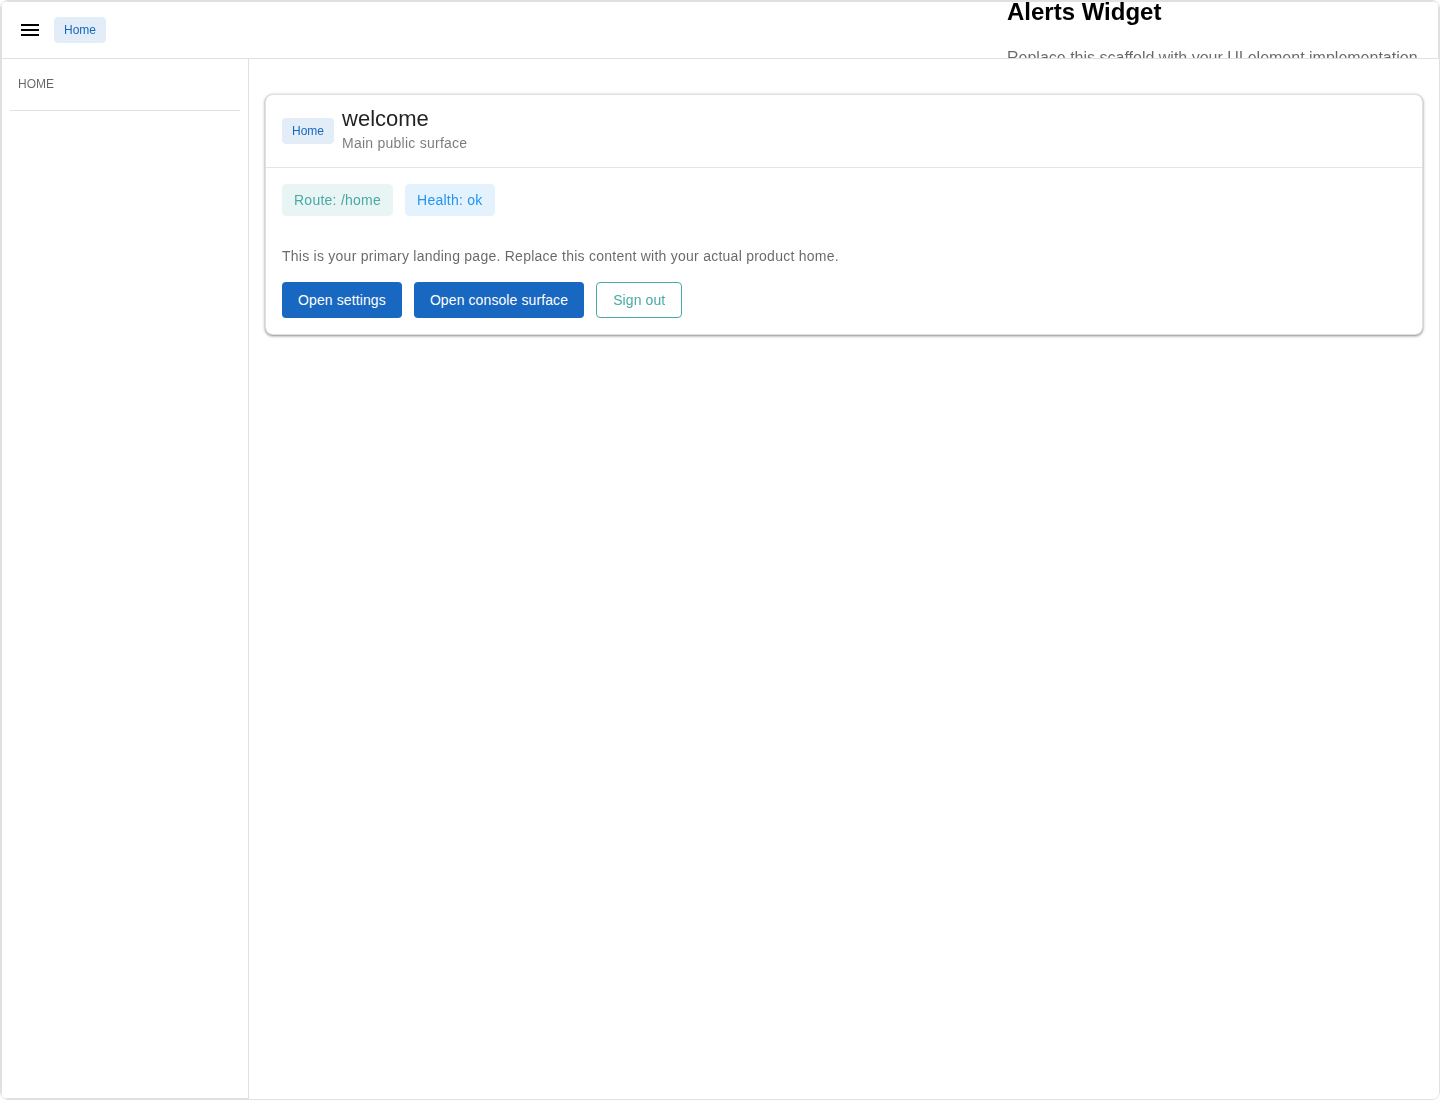
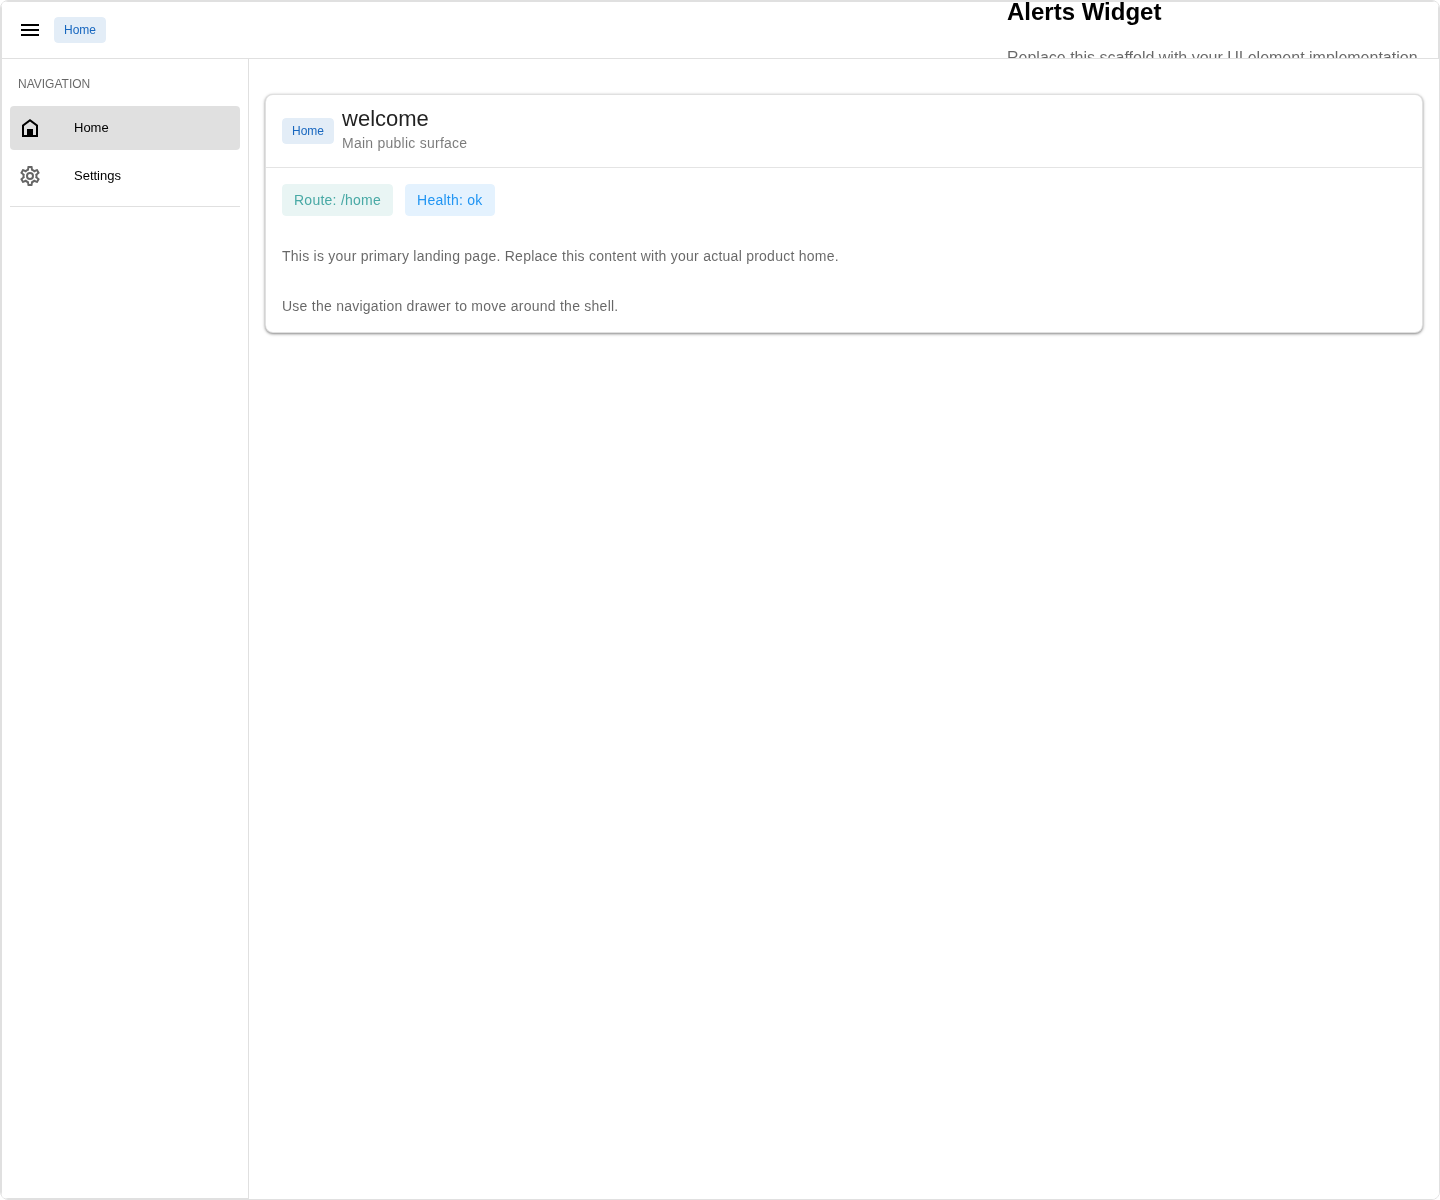
Refine shell-web starter settings docs

Changed region(s): [[0.0, 0.0, 1.0, 0.3091], [0.6875, 0.0, 1.0, 0.0618]]

diff --git a/docs/guide/a-more-interesting-shell.md b/docs/guide/a-more-interesting-shell.md
@@ -25,6 +25,7 @@ npx jskit add package shell-web
 npm install
 ```
 
+
 `jskit add` rewrites part of the scaffold and records the installed runtime package in `.jskit/lock.json`. The following `npm install` is what actually downloads the new package and its supporting dependencies.
 
 To see the result, run:
@@ -35,6 +36,20 @@ npm run server
 ```
 
 This time you really want both processes running. The new home page fetches `/api/health`, so the browser-facing dev server on port `5173` expects the backend on port `3000` to be alive as well.
+
+<DocsTerminalTip label="Important" title="Install It Early">
+`shell-web` is not just adding new files. It also **claims and replaces part of the original scaffold** so the app can switch from the plain starter layout to the real shell layout.
+
+That replacement is intentionally strict: `shell-web` only takes over scaffold files if they are still **exactly** the same as the files that `create-app` originally wrote. If you have already edited those starter files, `shell-web` refuses to claim them instead of overwriting your work.
+
+That is why the intended flow is:
+
+1. scaffold the app
+2. install `shell-web`
+3. start personalizing the shell
+
+If you build directly on top of the plain scaffold first and only try to add `shell-web` later, the install may fail because those app-owned files no longer match the untouched scaffold baseline.
+</DocsTerminalTip>
 
 Open `http://localhost:5173/` in the browser. The app still lands in the `home` surface, but that surface is no longer just a card in the middle of the page. It is wrapped in a real shell with an app bar, a navigation drawer, and a settings route at `/home/settings`.
 
@@ -53,7 +68,27 @@ Open `http://localhost:5173/` in the browser. The app still lands in the `home` 
   />
 </figure>
 
-You will also notice that the starter content now includes a couple of forward-looking buttons. For this chapter, the important new working route is `/home/settings`. Some of the other links are placeholders for later chapters.
+Two important things have changed compared with the older starter shell.
+
+- Navigation now lives in the drawer itself. `Home` and `Settings` are real shell menu entries from the start.
+- `Settings` is already a real nested section. Opening `/home/settings` redirects to `/home/settings/general`, and the left-side menu already contains a starter `General` entry.
+
+Open `http://localhost:5173/home/settings` in the browser to see that nested settings shell immediately:
+
+<figure class="docs-browser-shot">
+  <div class="docs-browser-shot__bar">
+    <div class="docs-browser-shot__dots" aria-hidden="true">
+      <span></span>
+      <span></span>
+      <span></span>
+    </div>
+    <div class="docs-browser-shot__address">http://localhost:5173/home/settings/general</div>
+  </div>
+  <img
+    src="/images/guide/a-more-interesting-shell/a-more-interesting-shell-settings-general.png"
+    alt="Example app home settings page after installing shell-web, showing the seeded General child page and nested settings menu"
+  />
+</figure>
 
 ## Module features
 
@@ -109,6 +144,8 @@ And the settings page introduces its own nested outlet in `src/pages/home/settin
 
 That nested example matters. It shows that the shell is not the only place that can host placements. A page inside the shell can define its own insertion point too. That is how JSKIT can later build menus inside sections such as settings without rewriting the whole shell.
 
+Just as importantly, `shell-web` already uses that placement system itself. The starter app is not only exposing placement targets; it is also seeding real placement entries into them. The drawer gets `Home` and `Settings`, and the nested settings menu gets `General`. That is why the shell already feels real before you generate anything of your own.
+
 The shell also ships with a few app-owned component tokens that it can use as default link renderers. You can inspect those too:
 
 ```bash
@@ -127,7 +164,7 @@ Showing link-item tokens only (token must end with "link-item"). Tip: use --all 
 
 So before we add anything of our own, the shell already knows about three local link-item tokens. They are app-owned components registered by the local package, and the shell uses them when an outlet needs to render links or tabs.
 
-At this point the shell is visible, but placements are still abstract. The next step is to use them.
+At this point the shell is already using placements itself. The next step is to add one of our own.
 
 
 ### Adding generic elements directly
@@ -178,7 +215,7 @@ npx jskit generate ui-generator page home/settings/profile/index.vue --name "Pro
 
 This is a more interesting example than the widget case. JSKIT creates the page file, notices that `src/pages/home/settings.vue` owns the `home-settings:primary-menu` outlet, and adds the preferred menu entry there automatically. You do not have to write that placement entry by hand.
 
-Open `/home/settings/profile` in the browser. The settings shell now shows a real child page and a real menu entry created by the same page-generation command. This is the important part of the chapter: the exact same placement system works both at the top shell level and inside a page-owned nested outlet.
+Open `/home/settings/profile` in the browser. The settings shell now shows a second real child page and a second real menu entry created by the same page-generation command. `General` was already there from `shell-web`; `Profile` is the first additional settings page you add yourself. This is the important part of the chapter: the exact same placement system works both at the top shell level and inside a page-owned nested outlet.
 
 <figure class="docs-browser-shot">
   <div class="docs-browser-shot__bar">
@@ -201,9 +238,12 @@ Now add a second sibling page:
 npx jskit generate ui-generator page home/settings/notifications/index.vue --name "Notifications"
 ```
 
-Open `/home/settings/notifications` in the browser. You now get a second settings menu entry without touching `settings.vue`, without writing a second menu component, and without hand-editing `src/placement.js`. JSKIT appends another placement entry targeting the same `home-settings:primary-menu` outlet, so the links simply stack in the menu for free.
+Open `/home/settings/notifications` in the browser. You now get a third settings menu entry without touching `settings.vue`, without writing a second menu component, and without hand-editing `src/placement.js`. JSKIT appends another placement entry targeting the same `home-settings:primary-menu` outlet, so the links simply stack in the menu for free.
 
-Because both generated links use the same default order, they render in source order: first `Profile`, then `Notifications`.
+The order is also easy to reason about:
+
+- `General` comes first because `shell-web` seeds it with a lower order than generated child pages.
+- `Profile` and `Notifications` both use the generator's default order, so between those two the menu keeps source order.
 
 <figure class="docs-browser-shot">
   <div class="docs-browser-shot__bar">
@@ -224,7 +264,8 @@ Because both generated links use the same default order, they render in source o
 In JSKIT's file-based routing, a page file can act as a layout if it renders a `RouterView`.
 
 - `src/pages/home/settings.vue` owns the settings shell and wraps its child routes.
-- `src/pages/home/settings/index.vue` is the default child shown at `/home/settings`.
+- `src/pages/home/settings/index.vue` is now just a redirect, so `/home/settings` lands on `/home/settings/general`.
+- `src/pages/home/settings/general/index.vue` is the first real child page created by the starter shell.
 - `src/pages/home/settings/profile/index.vue` becomes `/home/settings/profile` and still renders inside the layout from `settings.vue`.
 
 This is why the `home-settings:primary-menu` outlet from `list-placements` is such a useful clue: it tells you which page is acting as the host.
@@ -256,6 +297,7 @@ So the shell story in this chapter is:
 
 - `ShellOutlet` defines named places where UI can appear
 - `jskit list-placements` shows those places
+- `shell-web` already uses those places for the starter `Home`, `Settings`, and `General` entries
 - `jskit generate ui-generator placed-element ...` creates app-owned UI and places it into one of them
 - `jskit generate ui-generator page ...` can also discover a parent outlet and add the right menu entry automatically
 - repeating that page command for the same host gives you a stacked menu, still without hand-editing the host page
@@ -285,7 +327,11 @@ src/
       settings.vue
       settings/
         index.vue
+        general/
+          index.vue
         profile/
+          index.vue
+        notifications/
           index.vue
 ```
 
@@ -363,9 +409,48 @@ export default function getPlacements() {
 
 That file is the app-owned seam for placements. `shell-web` owns the runtime that can render placements, but the app owns the registry source that lists what should appear in those targets.
 
-After the `placed-element` and `page` commands from this chapter, the bottom of the file now contains real placement entries:
+After the `shell-web` install plus the `placed-element` and `page` commands from this chapter, the bottom of the file now contains real placement entries:
 
 ```js
+addPlacement({
+  id: "shell-web.home.menu.home",
+  target: "shell-layout:primary-menu",
+  surfaces: ["*"],
+  order: 50,
+  componentToken: "local.main.ui.surface-aware-menu-link-item",
+  props: {
+    label: "Home",
+    surface: "home",
+    nonWorkspaceSuffix: "/"
+  }
+});
+
+addPlacement({
+  id: "shell-web.home.menu.settings",
+  target: "shell-layout:primary-menu",
+  surfaces: ["home"],
+  order: 100,
+  componentToken: "local.main.ui.surface-aware-menu-link-item",
+  props: {
+    label: "Settings",
+    surface: "home",
+    nonWorkspaceSuffix: "/settings"
+  }
+});
+
+addPlacement({
+  id: "shell-web.home.settings.general",
+  target: "home-settings:primary-menu",
+  surfaces: ["home"],
+  order: 100,
+  componentToken: "local.main.ui.surface-aware-menu-link-item",
+  props: {
+    label: "General",
+    surface: "home",
+    to: "./general"
+  }
+});
+
 addPlacement({
   id: "ui-generator.element.alerts-widget",
   target: "shell-layout:top-right",
@@ -407,7 +492,10 @@ That snippet shows the full placement contract clearly:
 - the component token says what should render that entry
 - `props.to` tells the generated menu link which child route to open
 - the surface list says where it is active
+- lower `order` values come first
 - when multiple entries target the same outlet with the same order, the shell keeps their source order
+
+That is why the settings menu now shows `General` first, followed by `Profile` and `Notifications`: `General` is seeded by `shell-web` with a lower order, while the two generated pages share the same later order and keep their source order.
 
 So the shell itself remains stable. What changes is the registry that feeds it.
 
@@ -494,9 +582,10 @@ This matters because it is the first tiny example of the frontend and backend pa
 ```text
 src/pages/home/settings.vue
 src/pages/home/settings/index.vue
+src/pages/home/settings/general/index.vue
 ```
 
-The important file is `src/pages/home/settings.vue`:
+The important host file is still `src/pages/home/settings.vue`:
 
 ```vue
 <v-list nav density="comfortable" rounded="lg" border>
@@ -511,7 +600,13 @@ The important file is `src/pages/home/settings.vue`:
 
 This file matters for the same reason as `ShellLayout.vue`: it creates another named extension point instead of hard-coding a finished settings UI. The difference is that this one lives inside a page, not at the top shell level.
 
-That is what makes the page-generation example in this chapter important. It proves that the exact same placement mechanism can fill a nested settings menu, not just the outer shell, and it shows how a page host can keep rendering while child pages appear inside its `RouterView`.
+The starter shell now uses a real child-page structure right away:
+
+- `src/pages/home/settings/index.vue` is only a redirect into the first child page
+- `src/pages/home/settings/general/index.vue` is the first real settings page
+- `src/placement.js` already seeds a `General` link into `home-settings:primary-menu`
+
+That is what makes the page-generation examples in this chapter important. They are not inventing a new pattern. They are extending the exact same host-and-child-page structure that `shell-web` already uses for its own starter `General` page.
 
 ### What did not change
 
@@ -526,6 +621,6 @@ The app is still structurally simple. `shell-web` just makes that simple app beh
 
 ## Summary
 
-After this chapter, the app is still small, but it is no longer flat. `shell-web` adds an app-owned shell layout, a placement registry, a shell error host, menu-link tokens in the local client provider, and the first settings shell under `home`.
+After this chapter, the app is still small, but it is no longer flat. `shell-web` adds an app-owned shell layout, a placement registry, a shell error host, menu-link tokens in the local client provider, real drawer navigation, and the first nested settings section under `home`.
 
-More importantly, this chapter is where placements stop being theory. You inspect the available targets, see where they come from in source, place real UI into the outer shell, and then generate child settings pages that automatically land in the nested settings menu. That is the first real example of JSKIT working as an extension system rather than just a scaffold generator.
+More importantly, this chapter is where placements stop being theory. The shell already uses them for `Home`, `Settings`, and the starter `General` settings page. Then you inspect the available targets, place real UI into the outer shell, and add more child settings pages that automatically land in the nested settings menu. That is the first real example of JSKIT working as an extension system rather than just a scaffold generator.

diff --git a/docs/guide/initial-scaffolding.md b/docs/guide/initial-scaffolding.md
@@ -694,6 +694,14 @@ The remaining files are easier to understand once you know the core pieces above
 
 The `create-app` command also accepts a few other flags that are useful without changing the basic meaning of this chapter's setup. `--title <text>` lets you replace the browser title and other template text with a friendlier app name. `--target <path>` lets you choose a different output directory instead of the default `./exampleapp`. `--tenancy-mode <mode>` can seed `none`, `personal`, or `workspaces`; for this chapter we intentionally use `none` so the first scaffold stays small and non-workspace. `--force` allows writing into a non-empty target directory when you know that is what you want. `--dry-run` prints the planned file writes without touching the filesystem, which is useful when you want to inspect what the generator would do. `-h` or `--help` prints the command help.
 
+<DocsTerminalTip label="Next step" title="Install shell-web before editing the scaffold">
+
+If the next thing you plan to do is install `shell-web`, do that **before** you start personalizing the starter shell files.
+
+`shell-web` upgrades the plain scaffold by claiming a few app-owned files such as `src/App.vue`, `src/pages/home.vue`, and `src/pages/home/index.vue`. It only does that when those files still match the untouched base scaffold exactly. If you edit them first, `shell-web` will refuse to overwrite your changes.
+
+</DocsTerminalTip>
+
 ## Summary
 
 At the end of this first step, you should have more than a generated folder. You should have a mental map. `src/` is the web app, `server.js` is the runtime server, `config/` defines surfaces and shared behavior, `packages/main/` is your app's own local JSKIT package, and `.jskit/lock.json` records what JSKIT has done to the project. That is the foundation the next chapters will build on.

diff --git a/docs/STRUCTURE.md b/docs/STRUCTURE.md
@@ -11,11 +11,9 @@ npm install
 npx jskit add package shell-web
 npm run db:migrate
 npm install
-
 (show placements)
 
-- Explain that shell-web OVERWRITES things, and only if they are actually unchanged
-- Read after "src/placement.js becomes the placement registry"
+------------------------------------------
 
 # AUTHENTICATION
 
